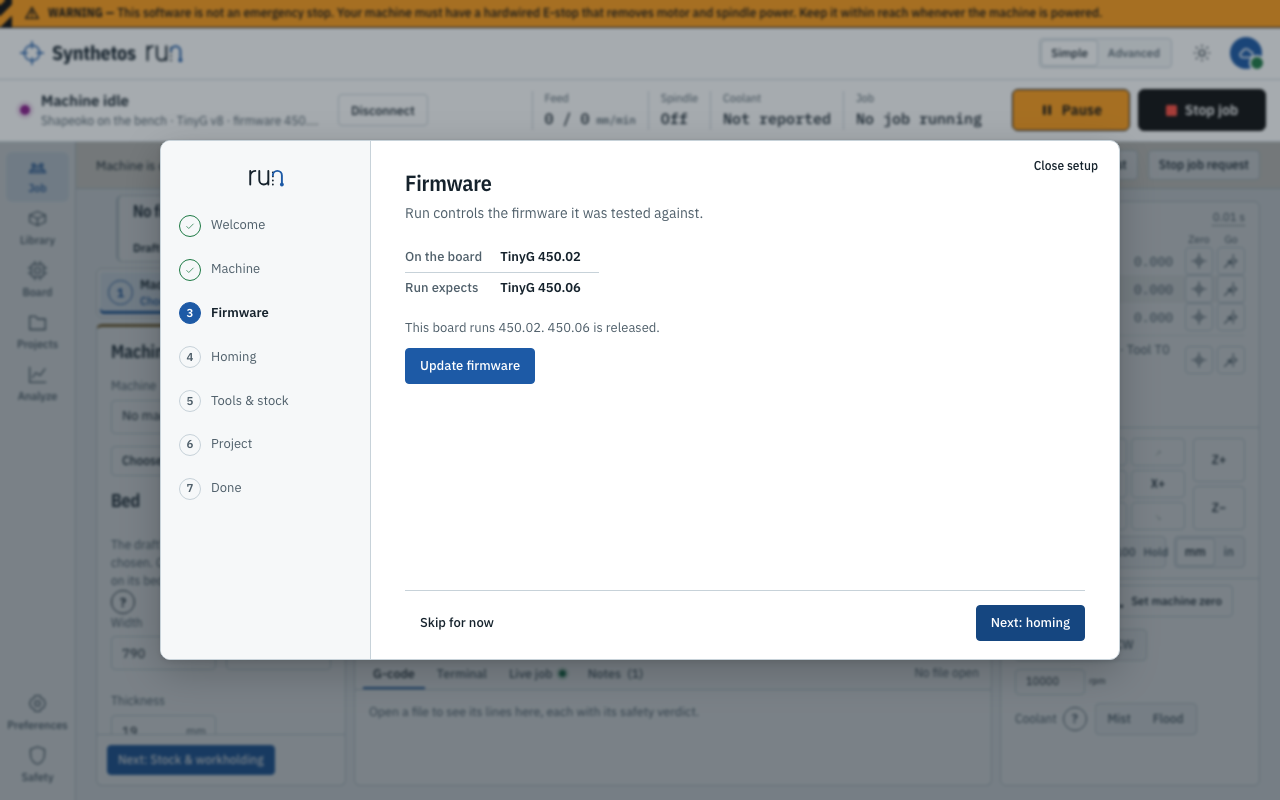
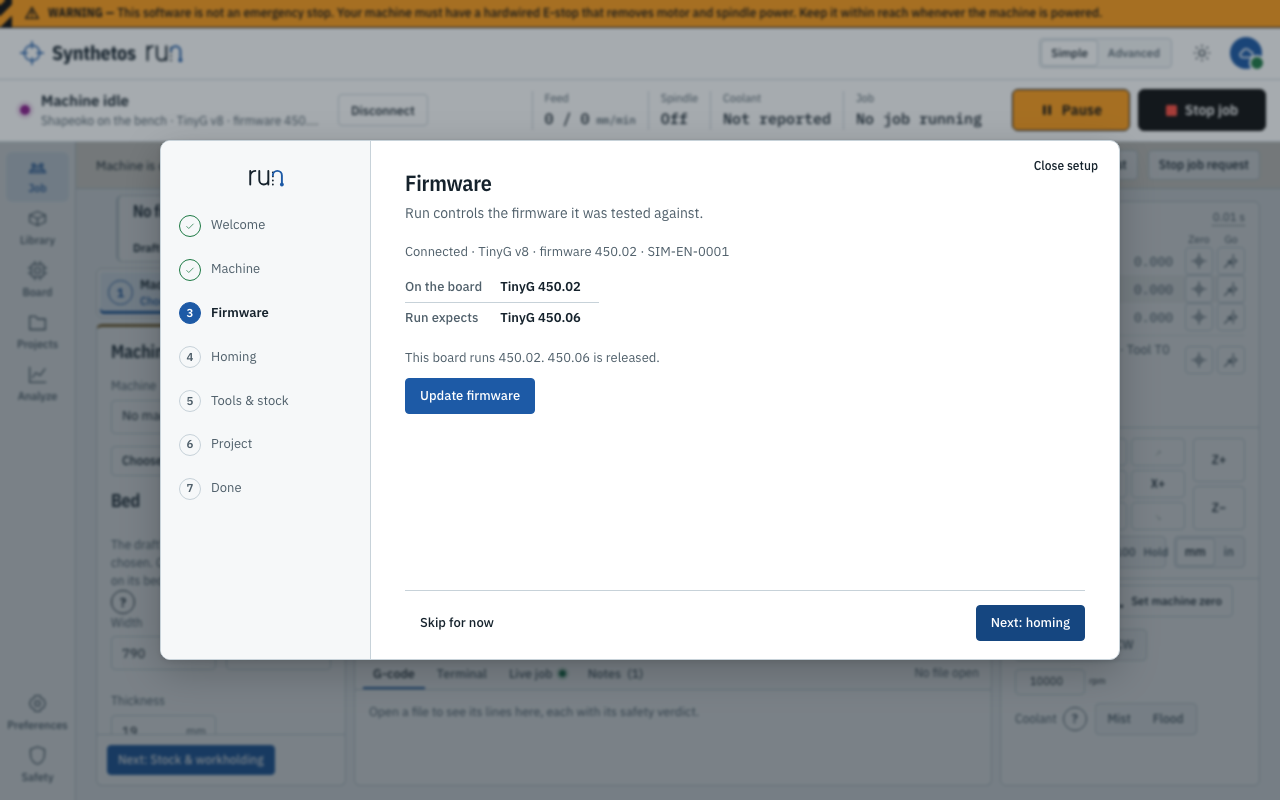
Extend the setup wizard walkthrough: restart with machines, the update holds the step, connect in the frame

Changed region(s): [[0.3125, 0.3125, 0.5, 0.5312], [0.5312, 0.3125, 0.5625, 0.3438]]

diff --git a/tools/e2e/specs/setup-wizard.fake-serial.ts b/tools/e2e/specs/setup-wizard.fake-serial.ts
@@ -54,14 +54,16 @@ async function connect(page: Page, worker: Worker, build?: Record<string, unknow
   await expect.poll(() => base(worker), { timeout: 15_000 }).toMatch(/^(IDLE_UNHOMED|CONNECTED_UNKNOWN)$/);
 }
 
+const MACHINE = { id: 'm-1', name: 'Bench', templateId: 'custom', drive: 'any', travel: { x: 300, y: 300, z: 80 }, spindle: '', createdAt: '2026-11-18T00:00:00.000Z' };
+const machineRecord = () => ({ id: 'm-1', kind: 'machine' as const, rev: 1, archivedAt: null, content: MACHINE, sha256: 'a'.repeat(64) });
+
 test('opens for a signed-in account with no machine once the records are read; not with a machine; not when dismissed', async ({ page }) => {
   await page.setViewportSize({ width: 1280, height: 800 });
   await open(page);
   await expect(wizard(page).getByRole('heading', { name: 'Welcome to Run' })).toBeVisible();
   await page.unrouteAll({ behavior: 'ignoreErrors' });
-  const machine = { id: 'm-1', name: 'Bench', templateId: 'custom', drive: 'any', travel: { x: 300, y: 300, z: 80 }, spindle: '', createdAt: '2026-11-18T00:00:00.000Z' };
   await stubAccount(page);
-  await fakeRecords(page, [{ id: 'm-1', kind: 'machine', rev: 1, archivedAt: null, content: machine, sha256: 'a'.repeat(64) }]);
+  await fakeRecords(page, [machineRecord()]);
   await page.goto('/');
   await expect(page.locator('[data-shell="workspace"][data-level]')).toBeVisible();
   await page.waitForTimeout(1500);
@@ -188,6 +190,42 @@ test('firmware needed (simulated): no skip, Next held, Update firmware opens the
   await expect(row).toHaveAttribute('data-release-focus', '');
   await expect(next(page)).toBeDisabled();
   await shot(page, 'step-3-update-light-1280');
+  // The flash closes the session: the step keeps the flow on screen, offers no Connect and holds Next and Skip.
+  expect(await request(worker, { v: 3, kind: 'close' })).toMatchObject({ ok: true });
+  await expect.poll(() => base(worker), { timeout: 10_000 }).toBe('NOT_CONNECTED');
+  await expect(page.locator('.wizard [data-region="firmware-releases"]')).toBeVisible();
+  await expect(page.locator('.wizard [data-region="connect"]')).toHaveCount(0);
+  await expect(page.locator('[data-action="wizard-skip"]')).toHaveCount(0);
+  await expect(next(page)).toBeDisabled();
+});
+
+// The local page cannot verify the safety advisory (no environment), so the entry flow answers with its refusal:
+// that answer, like the C1 checklist on a hosted page, renders inside the frame and is dismissed from there.
+test('step 2 connects from inside the frame: the entry flow’s answer shows in the wizard and is dismissed there', async ({ page }) => {
+  await page.setViewportSize({ width: 1280, height: 800 });
+  await open(page, [setupRecord({ step: 2, done: [1] })], 2);
+  const connect = wizard(page).locator('[data-region="connect"]');
+  await connect.locator('[data-action="connect"]').click();
+  const refusal = connect.locator('[data-entry="refused"]');
+  await expect(refusal.getByRole('alert')).toContainText('safety advisory');
+  const frame = await page.locator('.wizard-dialog').boundingBox();
+  const box = await refusal.boundingBox();
+  expect(box !== null && frame !== null && box.y >= frame.y && box.y + box.height <= frame.y + frame.height).toBe(true);
+  await refusal.locator('[data-action="dismiss"]').click();
+  await expect(refusal).toHaveCount(0);
+  await expect(connect.locator('[data-action="connect"]')).toBeVisible();
+  await expect(step(page, 2)).toBeVisible();
+});
+
+test('"Run setup again" brings the wizard back for an account that already has a machine', async ({ page }) => {
+  await page.setViewportSize({ width: 1280, height: 800 });
+  await stubAccount(page);
+  await fakeRecords(page, [machineRecord(), setupRecord({ dismissed: true, step: 7, done: [1, 2, 3, 4, 5, 6, 7] })]);
+  await page.goto('/');
+  await page.locator('[data-region="rail"] [data-view="settings"]').click();
+  await page.locator('[data-action="run-setup-again"]').click();
+  await expect(step(page, 1)).toBeVisible({ timeout: 10_000 });
+  await expect(page.locator('.app')).toHaveAttribute('inert', '');
 });
 
 test('resumes on the record step; Close setup dismisses it and Preferences brings it back', async ({ page }) => {

diff --git a/docs/design/SETUP_WIZARD.md b/docs/design/SETUP_WIZARD.md
@@ -22,7 +22,7 @@ person who connects from the wizard never sees that.
 | 3 Firmware | The board's build against the newest release Run supports, decided by `firmware/updateOffer.ts`. Here the simulated board runs 450.02 and 450.06 is released: skippable, Next on. | ![Step 3](screenshots/setup-wizard/step-3-light-1280.png) |
 | 3 Firmware, needed | Below what Run controls: no Skip, Next held, the exact offer text, "Update firmware". | ![Step 3 needed](screenshots/setup-wizard/step-3-needed-light-1280.png) |
 | 3 Firmware, updating | "Update firmware" runs the Board tab's own update flow inside the frame with the offered release marked. The flash itself is the existing flow, unchanged (`flasher.fake-serial.ts` covers it). | ![Step 3 update](screenshots/setup-wizard/step-3-update-light-1280.png) |
-| 4 Homing | Two radio cards; the choice is written to the setup record as it is made and never to the board. The chosen card decides which of the existing Home controls shows: Home all, or Set machine zero. | ![Step 4](screenshots/setup-wizard/step-4-light-1280.png) |
+| 4 Homing | Two radio cards; the choice is written to the setup record as it is made and never to the board. Homing moves the machine and Pause and Stop sit under the wizard's lock, so the wizard never offers Home: with switches it points to the Job page; without switches it shows the existing Set machine zero control (no motion). | ![Step 4](screenshots/setup-wizard/step-4-light-1280.png) |
 | 5 Tools and stock | Add from catalog (the catalog picker, in place) or Create a tool (the tool editor, on top); the stock's three sizes, saved to the setup record by Add stock. | ![Step 5](screenshots/setup-wizard/step-5-light-1280.png) |
 | 6 First project | The demo name plate, or a new project by name. Open project makes the demo as a real project in the account and opens its file. | ![Step 6](screenshots/setup-wizard/step-6-light-1280.png) |
 | 7 You are set | The project that is open, one line on what to do next, and the "More to set up" rows, each collapsed with a link to the place in Run where it is done. | ![Step 7](screenshots/setup-wizard/step-7-light-1280.png) |
@@ -62,9 +62,12 @@ its file and setup, and the setup record itself (`dismissed`, `step`, `done`, `h
 
 | Ruling | Cost if wrong |
 |---|---|
-| The wizard opens when signed in, after the first record read, with no machine record and no dismissal; once under way (step above 1) it stays open after step 2 saved the machine. | A started wizard shows on every load until finished or closed, which is the resume behaviour the spec asks for. |
+| The wizard opens when signed in, after the first record read, with no dismissal, and either no machine record or a setup record at all (a started wizard, or "Run setup again"). A legacy account with machines and no record never sees it uninvited. | A started wizard shows on every load until finished or closed, which is the resume behaviour the spec asks for. |
 | The homing choice lives on the setup record; the board is never written. | None: owner's decision 2026-11-17. |
-| "Update firmware" embeds the Board tab's whole update flow in the frame; Next unlocks when the offer is no longer `needed` for the live board. | A cramped layout in the content column; it scrolls. |
+| The wizard never offers "Home": Pause and Stop are in the machine strip under the wizard's lock (SAFETY §4.1). With switches the step points to the Job page; without switches it shows Set machine zero, which does not move the machine. | The spec's "Home now" waits for the Job page; a slice that keeps the strip outside the lock could bring it back. |
+| "Update firmware" embeds the Board tab's whole update flow in the frame. While the flash runs, or while the update was started and the session is closed, the step is `updating`: no Skip, Next held, the flow stays on screen. Next unlocks when the board is back and the offer is no longer `needed`. | A cramped layout in the content column; it scrolls. |
+| Steps 3 and 4 name the connected board and refuse another board than the machine's with one line; step 3 then hides "Update firmware" and holds Next. | None visible. |
+| A refused "Open project" (a running job, a missing file) still records the project it made; the next press opens that project instead of making another. | None visible. |
 | Closing is a quiet "Close setup" button; Escape does nothing. Preferences brings it back at step 1. | One extra button. |
 | The chosen tool is the entry added while step 5 is open; the stock is written when Add stock is pressed. | A tool added elsewhere during the step counts as the choice. |
 | The demo tool is defined in code with the catalog's values (id `demo.quarter-2f`); the catalog is not fetched. | A duplicate of one catalog row. |
